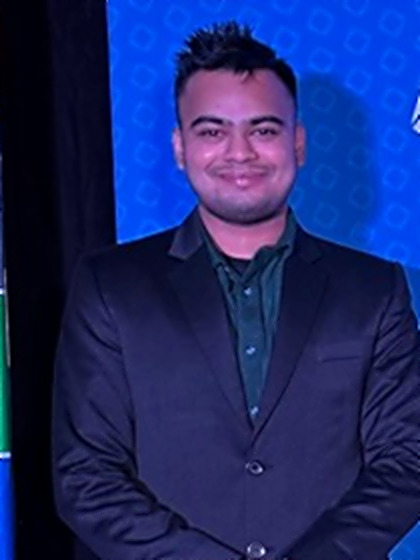
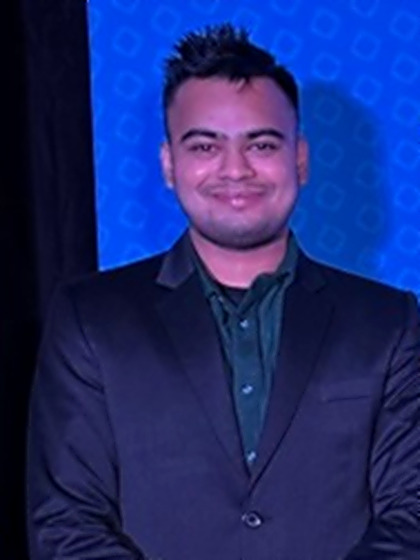
Reframe portrait as head-and-shoulders, move badge below photo
Claude-Session: https://claude.ai/code/session_01CMoiyFTU7viCFXXY5CyvZd

diff --git a/website/index.html b/website/index.html
@@ -144,10 +144,9 @@ h1 em { color: var(--accent); }
 .btn-primary:hover { background: var(--accent); border-color: var(--accent); color: #fff; }
 
 .portrait { position: relative; justify-self: end; width: 100%; max-width: 290px; }
-.portrait-frame { border-radius: 22px; overflow: hidden; aspect-ratio: 3 / 4; background: var(--bg-soft); box-shadow: 0 30px 60px -30px rgba(18,20,26,.45); position: relative; }
+.portrait-frame { border-radius: 20px; border: 1px solid var(--line); overflow: hidden; aspect-ratio: 3 / 4; background: var(--bg-soft); box-shadow: 0 30px 60px -30px rgba(18,20,26,.45); position: relative; }
 .portrait-frame img { width: 100%; height: 100%; object-fit: cover; object-position: 50% 20%; }
-.portrait::before { content: ""; position: absolute; inset: 18px -18px -18px 18px; border: 1px solid var(--line); border-radius: 22px; z-index: -1; }
-.badge { position: absolute; left: -28px; bottom: 34px; background: var(--bg-elev); border: 1px solid var(--line); border-radius: 14px; padding: 12px 16px; box-shadow: var(--shadow); display: flex; gap: 12px; align-items: center; }
+.badge { margin-top: 14px; background: var(--bg-elev); border: 1px solid var(--line); border-radius: 14px; padding: 12px 16px; box-shadow: var(--shadow); display: flex; gap: 12px; align-items: center; }
 .badge-ic { width: 36px; height: 36px; border-radius: 10px; background: var(--accent-soft); color: var(--accent); display: grid; place-items: center; flex: none; }
 .badge-ic svg { width: 18px; height: 18px; }
 .badge b { display: block; font-size: .88rem; font-weight: 600; line-height: 1.3; }
@@ -314,8 +313,9 @@ ul.pts li::before { content: ""; position: absolute; left: 2px; top: .72em; widt
 
 /* ---------- Responsive ---------- */
 @media (max-width: 980px) {
-  .hero-grid { grid-template-columns: 1fr; gap: 48px; }
-  .portrait { justify-self: start; max-width: 260px; margin-left: 18px; }
+  .hero-grid { grid-template-columns: 1fr 230px; gap: 40px; }
+  .portrait { max-width: 230px; }
+  .badge { padding: 10px 12px; }
   .sec-head, .sec-body { grid-template-columns: 1fr; gap: 14px; }
   .sec-body > .side { display: none; }
   .metrics-grid { grid-template-columns: repeat(2, 1fr); }
@@ -331,6 +331,9 @@ ul.pts li::before { content: ""; position: absolute; left: 2px; top: .72em; widt
 }
 @media (max-width: 600px) {
   body { font-size: 16px; }
+  .hero-grid { grid-template-columns: 1fr; gap: 28px; }
+  .portrait { justify-self: stretch; max-width: none; order: -1; display: grid; grid-template-columns: 150px minmax(0, 1fr); gap: 14px; align-items: end; }
+  .badge { margin-top: 0; }
   .wrap { padding: 0 16px; }
   .hero { padding: 44px 0 44px; }
   .lede { font-size: 1.08rem; }
@@ -345,7 +348,6 @@ ul.pts li::before { content: ""; position: absolute; left: 2px; top: .72em; widt
   .edu { grid-template-columns: 1fr; }
   .gpa { text-align: left; }
   .pub-title { font-size: 1.5rem; }
-  .badge { left: -12px; }
   .contact-in { padding: 72px 0 60px; }
   .about p:first-child::first-letter { font-size: 3.4rem; }
   .pipeline { flex-direction: column; overflow: visible; }
